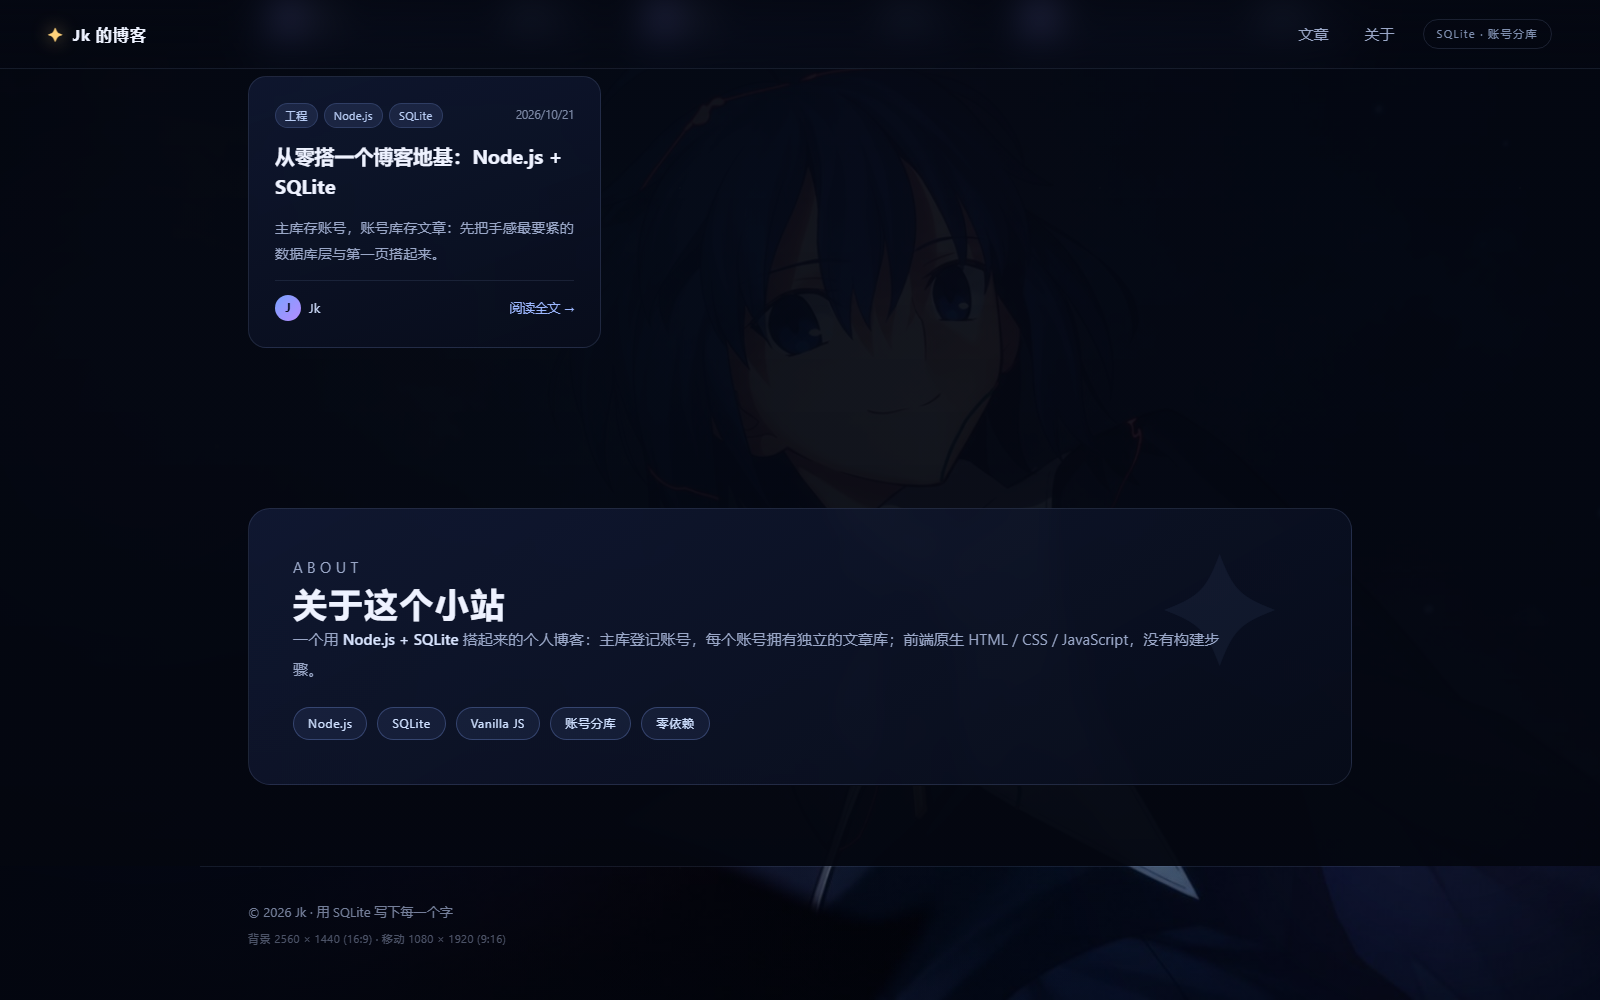
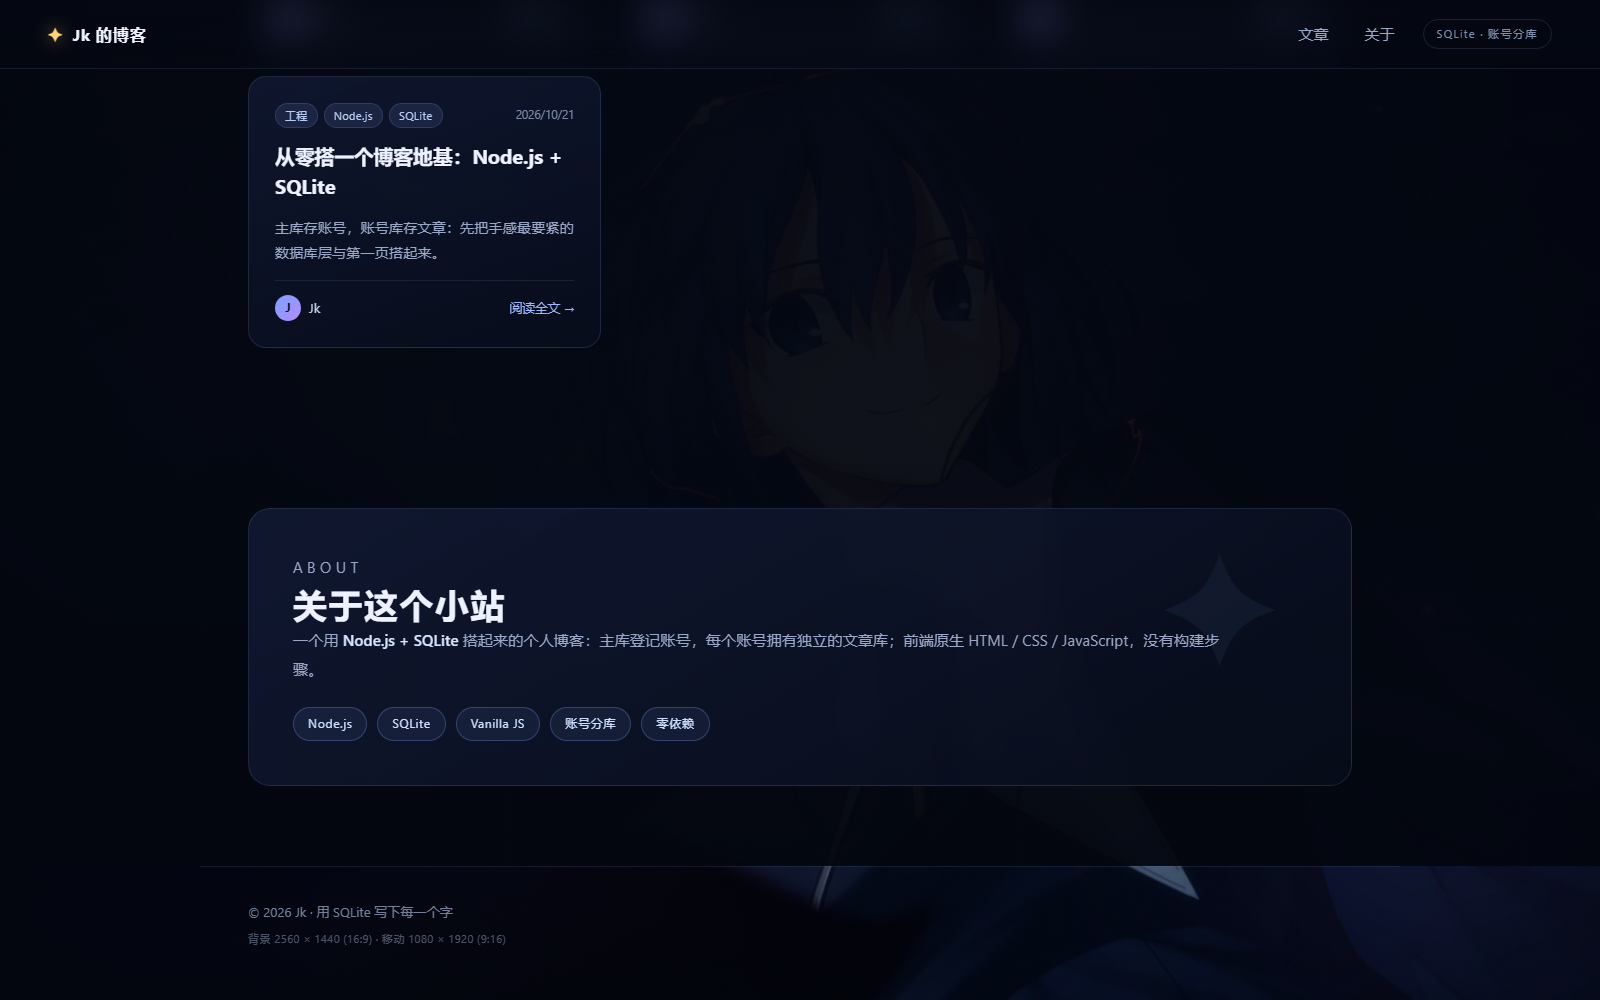
feat: 优化两屏切换过渡：缓动滚动、首屏淡出、内容渐入与软化分界

Changed region(s): [[0.1875, 0.589, 0.75, 0.651], [0.1562, 0.248, 0.2812, 0.279]]

diff --git a/web/js/app.js b/web/js/app.js
@@ -16,6 +16,9 @@ const FALLBACK_GREETINGS = [
 
 const prefersReducedMotion = window.matchMedia('(prefers-reduced-motion: reduce)').matches;
 
+// 只有 JS 正常加载时才启用「渐入」动画，避免无 JS 时内容被隐藏。
+document.documentElement.classList.add('js-reveal');
+
 const state = {
   site: null,
   accounts: [],
@@ -359,6 +362,107 @@ function openArticleFromUrl() {
 }
 
 /* ------------------------------------------------------------------ */
+/* 滚动过渡                                                            */
+/* ------------------------------------------------------------------ */
+
+function easeInOutCubic(t) {
+  return t < 0.5 ? 4 * t * t * t : 1 - (-2 * t + 2) ** 3 / 2;
+}
+
+/** 带缓动的平滑滚动，替代浏览器默认的锚点跳转。 */
+function scrollToSection(target) {
+  const topbar = $('.topbar');
+  const offset = (topbar?.offsetHeight || 64) + 14;
+  const targetY = Math.max(0, target.getBoundingClientRect().top + window.scrollY - offset);
+
+  if (prefersReducedMotion) {
+    window.scrollTo(0, targetY);
+    return;
+  }
+
+  const startY = window.scrollY;
+  const distance = targetY - startY;
+  if (Math.abs(distance) < 2) return;
+
+  const duration = Math.min(1100, Math.max(520, Math.abs(distance) * 0.5));
+  const startTime = performance.now();
+  const step = (now) => {
+    const progress = Math.min(1, (now - startTime) / duration);
+    window.scrollTo(0, startY + distance * easeInOutCubic(progress));
+    if (progress < 1) requestAnimationFrame(step);
+  };
+  requestAnimationFrame(step);
+}
+
+function initSmoothAnchors() {
+  for (const link of $$('a[href^="#"]')) {
+    if (link.classList.contains('skip-link')) continue;
+    link.addEventListener('click', (event) => {
+      const hash = link.getAttribute('href');
+      if (!hash || hash === '#') return;
+      const target = document.querySelector(hash);
+      if (!target) return;
+      event.preventDefault();
+      scrollToSection(target);
+    });
+  }
+}
+
+/** 第二屏元素首次进入视口时渐入。 */
+function initReveal() {
+  const items = $$('[data-reveal]');
+  if (items.length === 0) return;
+
+  if (prefersReducedMotion || typeof IntersectionObserver === 'undefined') {
+    for (const item of items) item.classList.add('is-revealed');
+    return;
+  }
+
+  const observer = new IntersectionObserver(
+    (entries) => {
+      for (const entry of entries) {
+        if (!entry.isIntersecting) continue;
+        entry.target.classList.add('is-revealed');
+        observer.unobserve(entry.target);
+      }
+    },
+    { threshold: 0.1, rootMargin: '0px 0px -6% 0px' },
+  );
+  for (const item of items) observer.observe(item);
+}
+
+/** 向下滚动时首屏内容轻微上移并淡出，让两屏衔接更自然。 */
+function initHeroScroll() {
+  if (prefersReducedMotion) return;
+  const hero = $('.hero');
+  const copy = $('.hero-copy');
+  const hint = $('.scroll-hint');
+  if (!hero || !copy) return;
+
+  let ticking = false;
+  const update = () => {
+    ticking = false;
+    const rect = hero.getBoundingClientRect();
+    const distance = Math.max(rect.height * 0.7, 1);
+    const progress = Math.min(1, Math.max(0, -rect.top / distance));
+    copy.style.opacity = String(1 - progress * 0.9);
+    copy.style.transform = `translate3d(0, ${(-progress * 28).toFixed(2)}px, 0)`;
+    if (hint) hint.style.opacity = String(Math.max(0, 1 - progress * 2.2));
+  };
+
+  window.addEventListener(
+    'scroll',
+    () => {
+      if (ticking) return;
+      ticking = true;
+      requestAnimationFrame(update);
+    },
+    { passive: true },
+  );
+  update();
+}
+
+/* ------------------------------------------------------------------ */
 /* 事件绑定                                                            */
 /* ------------------------------------------------------------------ */
 
@@ -395,6 +499,9 @@ function wireEvents() {
 
 async function boot() {
   wireEvents();
+  initSmoothAnchors();
+  initReveal();
+  initHeroScroll();
 
   const [siteResult, statsResult, accountsResult] = await Promise.allSettled([
     getSite(),

diff --git a/web/css/style.css b/web/css/style.css
@@ -533,10 +533,33 @@ img {
 
 .content-stage {
   position: relative;
-  border-top: 1px solid rgba(148, 170, 220, 0.16);
   background:
-    radial-gradient(1000px 280px at 50% -80px, rgba(88, 122, 210, 0.22), transparent 72%),
-    linear-gradient(180deg, rgba(4, 7, 16, 0.66) 0%, rgba(4, 7, 16, 0.88) 26%, rgba(4, 7, 16, 0.95) 100%);
+    radial-gradient(1100px 320px at 50% -60px, rgba(88, 122, 210, 0.2), transparent 72%),
+    linear-gradient(
+      180deg,
+      rgba(4, 7, 16, 0.08) 0%,
+      rgba(4, 7, 16, 0.55) 8%,
+      rgba(4, 7, 16, 0.82) 20%,
+      rgba(4, 7, 16, 0.93) 38%,
+      rgba(4, 7, 16, 0.95) 100%
+    );
+}
+
+/* 第二屏元素首次进入视口时渐入，避免硬切换。
+   只有 JS 成功加载时才隐藏，保证无 JS 时内容也可见。 */
+
+.js-reveal [data-reveal] {
+  opacity: 0;
+  transform: translateY(24px);
+  transition:
+    opacity 0.75s cubic-bezier(0.22, 0.8, 0.24, 1),
+    transform 0.75s cubic-bezier(0.22, 0.8, 0.24, 1);
+  will-change: opacity, transform;
+}
+
+.js-reveal [data-reveal].is-revealed {
+  opacity: 1;
+  transform: none;
 }
 
 .screen-divider {
@@ -1358,6 +1381,11 @@ img {
     scroll-behavior: auto;
   }
 
+  [data-reveal] {
+    opacity: 1;
+    transform: none;
+    transition: none;
+  }
   *,
   *::before,
   *::after {

diff --git a/web/index.html b/web/index.html
@@ -75,9 +75,9 @@
       </section>
 
       <div class="content-stage">
-        <div class="screen-divider" aria-hidden="true"><span>✦</span></div>
+        <div class="screen-divider" aria-hidden="true" data-reveal><span>✦</span></div>
 
-        <section class="section feed-section" id="feed" aria-labelledby="feed-title">
+        <section class="section feed-section" id="feed" aria-labelledby="feed-title" data-reveal>
           <div class="section-head">
             <div>
               <p class="section-kicker">Latest posts</p>
@@ -94,7 +94,7 @@
         </section>
 
         <section class="section about-section" id="about" aria-labelledby="about-title">
-          <div class="about-card">
+          <div class="about-card" data-reveal>
             <p class="section-kicker">About</p>
             <h2 class="section-title" id="about-title">关于这个小站</h2>
             <p>

diff --git a/README.md b/README.md
@@ -160,7 +160,7 @@ app.close();
 ## 前端说明
 
 - **看板娘起始页**：全屏星空背景 + 站点标题 + 打字机问候 + 数据统计。看板娘目前以文字问候的形式出场，首页不放立绘。
-- **首页分两屏**：首屏是背景视觉区（标题 / 入口 / 数据，底部有「向下滚动」提示），向下滚动进入内容屏（文章列表 + 关于），内容屏用独立深色渐变与首屏区分。
+- **首页分两屏**：首屏是背景视觉区（标题 / 入口 / 数据，底部有「向下滚动」提示），向下滚动进入内容屏（文章列表 + 关于），内容屏用独立深色渐变与首屏区分；两屏切换带有缓动滚动、首屏淡出和内容渐入。
 - **最新文章**：跨账号 Feed；顶部胶囊可按账号筛选，对应「分库」结构。
 - **阅读弹窗**：点击文章卡片，从对应账号库取回正文；内置一个安全的极简 Markdown 渲染器（先整体转义，再渲染）。
 - **文章深链**：`/?post=xiaoxing:1` 可直接打开某篇文章。
